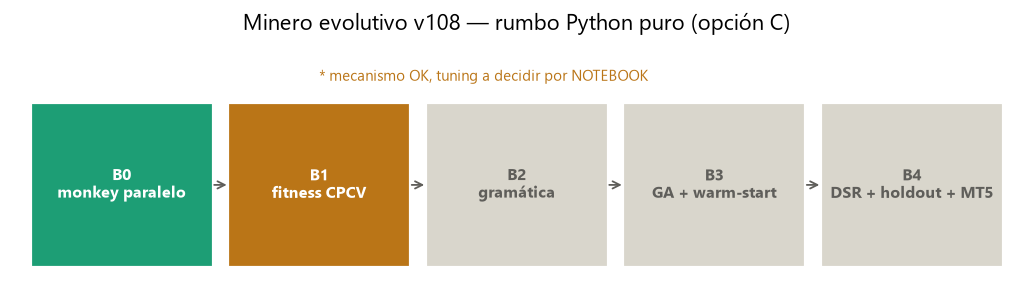
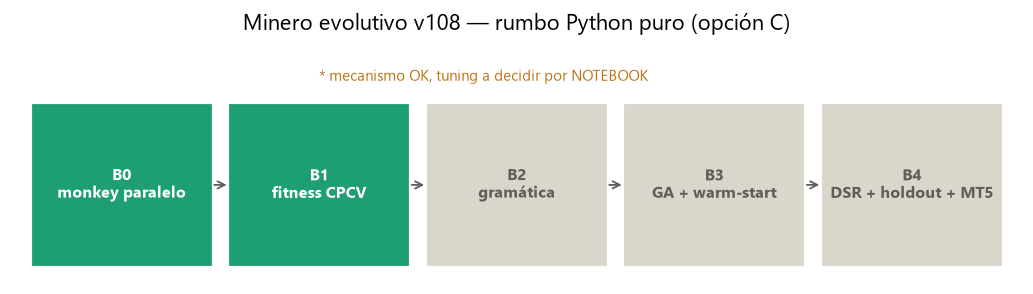
[BLANCA] B1 config cerrada: barrido + validacion EURGBP -> n=1000 + Q25
Ejecutado el barrido de NOTEBOOK con el juez justo (EURGBP sin tendencia,
la beta no contamina). EURGBP ingerido (gate WARN benigno = libra 2008 en
Z0 sellada; assets.csv con Z1/Z2 2015/2022, friccion forex aprox), pools
LONG MOM+TREND minados.

Barrido nx{400,1000} x {mediana,Q25}: en EURGBP la mediana NO de-sesga
(top 64% horizonte largo, rho +0.04) y Q25 SI (14% largo, rho +0.09). En
XAUUSD van parejas. Por la regla "Q25 solo si EURGBP lo respalda", Q25
gana claro -> fitness_v108.py queda con agg='q25' default; n=1000 (menor
varianza). El fitness le gana al naive donde la beta contamina (XAUUSD
bull: de-sesga 78%->56%); en mercado limpio van parejos.

P1/P2/P3 respondidas en docs/desarrollo.html + grafico v108_b1_tuning.png
(pedido de Mariano: registro grafico de cada avance). Herramientas:
tools/barrido_b1.py, experimentos/barrido_b1.csv.

Changed region(s): [[0.2168, 0.3367, 0.4027, 0.9184]]

diff --git a/docs/desarrollo.html b/docs/desarrollo.html
@@ -79,24 +79,22 @@ gates) está validado; el cuello es el GENERADOR de hipótesis. Se construye el 
   es ruidosa. <b>Hallazgo importante:</b> en el terreno fresco/limpio/largo la transferencia Z1→Z2 es débil
   pero REAL — el "anti-edge absoluto" de antes era en parte artefacto de la data vieja.</div></div>
 
-<h2 id="preguntas">❓ Preguntas abiertas para NOTEBOOK</h2>
-<p style="font-size:13.5px">(Mariano las contesta desde la notebook. También quedan en BITACORA.md.)</p>
+<div class="card"><a href="desarrollo/v108_b1_tuning.png" target="_blank"><img src="desarrollo/v108_b1_tuning.png" alt="B1 tuning"></a>
+  <div class="pie"><span class="num">B1·tuning</span><b>El barrido cierra la config: n=1000 + Q25.</b> La clave
+  fue validar en <b>EURGBP (sin tendencia = juez justo, la beta no contamina)</b>. Izq: la mediana NO de-sesga
+  ahí (64% horizonte largo en el top); <b>Q25 sí (14%)</b>. Der: Q25 también predice mejor la honestidad en
+  EURGBP (+0,09 vs +0,04). En XAUUSD las dos van parejas. → <b>Q25 elegido</b> (NOTEBOOK: "Q25 solo si EURGBP
+  lo respalda" — y lo respalda).</div></div>
 
-<div class="q"><b>P1 — Tuning del fitness B1 antes de cablearlo al GA (B3).</b> El mecanismo está probado
-(skill→100, beta→0) y bate al naive en lo grueso (+0,20 vs +0,17), pero su top-50 no supera al de pf_is (mk_z2
-47 vs 58). Knobs disponibles: <b>(a)</b> n_monkeys 400→800/1000 (baja la varianza por fold); <b>(b)</b>
-agregación mediana vs Q25 (Q25 afinó: top 52 y 5/50 pasan ≥90 vs 47 y 2/50); <b>(c)</b> la regla
-<code>n_valid&lt;K/2 ⇒ fitness 0</code> (¿muy dura?); <b>(d)</b> λ de parsimonia. <b>¿Corro un barrido
-(n∈{400,1000}×{mediana,Q25}) y te traigo la tabla, o fijás vos la config?</b></div>
-
-<div class="q"><b>P2 — El diagnóstico cambió en terreno fresco.</b> Con la data Dukascopy nueva (Z2 2022-26,
-historia 2003+), pf_is muestra <b>+0,168 de transferencia Z1→Z2 real</b>, no el ~0/negativo del diagnóstico
-viejo. ¿Esto reabre algo del rumbo (p.ej. vale la pena exprimir la gramática vieja un poco más), o seguimos
-firmes con B2 (gramática formulaica) como estaba?</div>
-
-<div class="q"><b>P3 — Objetivo del fitness: ¿robustez o pico?</b> El fitness actual premia consistencia en Z1
-(mediana de folds), lo que sacrifica algo de pico. ¿La brújula del GA debe priorizar candidatos robustos-pero-
-modestos, o picos-altos-aunque-menos-consistentes? Define qué optimiza B3.</div>
+<h2 id="preguntas">✅ Preguntas — RESPONDIDAS por NOTEBOOK (2026-06-16)</h2>
+<div class="ok"><b>P1 — RESUELTA.</b> Barrido corrido con el juez justo (EURGBP). <b>Config elegida: n=1000 + Q25</b>
+(fijada como default en <code>fitness_v108.py</code>). Honestidad: el fitness le gana al naive donde la beta
+contamina (XAUUSD bull: de-sesga 78%→56%, Spearman +0,18 vs +0,16); en el mercado limpio (EURGBP) ambos van
+parejos. Ver gráfico B1·tuning.</div>
+<div class="ok"><b>P2 — seguimos a B2.</b> El +0,168 es señal débil REAL (parte del anti-edge viejo era artefacto
+de la data sucia). Rumbo igual, pronóstico algo mejor.</div>
+<div class="ok"><b>P3 — ROBUSTEZ, no pico.</b> El "pico" es la maldición del ganador / la beta. El fitness
+beta-neutral (mediana/Q25 de folds) ya prioriza robustez — se mantiene.</div>
 
 <div class="ok" style="margin-top:24px">Cómo se actualiza: <code>python tools/graficar_desarrollo.py</code> regenera los PNG
 desde los datos reales (CSV de validación, benchmarks). Cada bloque nuevo agrega su gráfico acá y su entrada en

diff --git a/tools/barrido_b1.py b/tools/barrido_b1.py
@@ -1,0 +1,118 @@
+# ##########################################################################
+# SYSTEM: X1-ARCHITECT | B1 TUNING (barrido + validación cruzada EURGBP)
+# FILE: tools/barrido_b1.py
+# ROL: Cerrar la config del fitness v108. Barre n∈{400,1000}×agg∈{mediana,Q25}
+#      sobre XAUUSD (Z2 bull, sesgado a beta) Y EURGBP (sin tendencia = JUEZ
+#      JUSTO del fitness beta-neutral, spec NOTEBOOK).
+#      Juez: (a) Spearman(fitness, mk_oos_z2) global, (b) de-sesgo de beta
+#      (% horizonte largo en el top-50), (c) coherencia en EURGBP.
+# USO: python tools/barrido_b1.py [n_sample]
+# ##########################################################################
+import os, sys, time, json
+import numpy as np
+import pandas as pd
+from scipy import stats
+
+sys.path.insert(0, os.path.dirname(os.path.dirname(os.path.abspath(__file__))))
+from modules.x1_engine import simulate
+from modules.x1_validators import monkey_batch
+from modules.fitness_v108 import fitness_population
+
+N_SAMPLE = int(sys.argv[1]) if len(sys.argv) > 1 else 3000
+N_TRUTH = 1000
+LONG_HORIZON = {'Ret_72', 'Ret_96'}   # los exits "beta" (deriva larga)
+SYMBOLS = {
+    'XAUUSD': dict(parquet=r'C:\temp\X1_FULL_XAUUSD_H1.parquet', f_points=1.0,
+                   pools=[r'C:\temp\X1_RAW_XAUUSD_LONG_MOMENTUM.parquet',
+                          r'C:\temp\X1_RAW_XAUUSD_LONG_TREND.parquet']),
+    'EURGBP': dict(parquet=r'C:\temp\X1_FULL_EURGBP_H1.parquet', f_points=0.0002,
+                   pools=[r'C:\temp\X1_RAW_EURGBP_LONG_MOMENTUM.parquet',
+                          r'C:\temp\X1_RAW_EURGBP_LONG_TREND.parquet']),
+}
+CONFIGS = [(400, 'median'), (1000, 'median'), (400, 'q25'), (1000, 'q25')]
+
+
+def load_symbol(sym, spec):
+    df = pd.read_parquet(spec['parquet'])
+    zone = df['Zone'].values
+    z_is, z_oos = zone == 1, zone == 2
+    z1s, z1e = int(np.argmax(z_is)), int(np.where(z_is)[0][-1] + 1)
+    base = df.drop(columns=['DateTime', 'Zone'], errors='ignore')
+    data = base.values.astype(np.float32)
+    cm = {n: i for i, n in enumerate(base.columns)}
+    ri = {n: i for i, n in enumerate(base.columns) if 'Ret_' in n}
+    close = data[:, cm['Close']].astype(np.float64)
+    ret1 = np.zeros(len(close)); ret1[:-1] = (close[1:] - close[:-1]) / (close[:-1] + 1e-9)
+    pool = pd.concat([pd.read_parquet(p) for p in spec['pools']], ignore_index=True)
+    pool = pool.sample(n=min(N_SAMPLE, len(pool)), random_state=42).reset_index(drop=True)
+    cands = list(zip(pool['Entry'], pool['Side'], pool['Exit']))
+    fp = spec['f_points']; fr_oos = fp / float(np.mean(close[z_oos]))
+    # verdad Z2 (solo validación) + pf_is
+    pf_is = np.full(len(cands), np.nan); jobs, tags = [], []
+    for ci, (rule, side, ex) in enumerate(cands):
+        try:
+            sim = simulate(data, cm, ri, rule, ex, side, cooldown=25, friction_points=fp)
+        except ValueError:
+            continue
+        idx = np.where(sim['mask'])[0]; r_all = sim['vector']
+        r_i = r_all[z_is][r_all[z_is] != 0]
+        if len(r_i) >= 2:
+            pf_is[ci] = r_i[r_i > 0].sum() / (abs(r_i[r_i < 0].sum()) + 1e-9)
+        ent = idx[z_oos[idx]]
+        if len(ent) >= 5:
+            pos = np.searchsorted(idx, ent); expo = int(max(1, round(float(np.mean(sim['durations'][pos])))))
+            jobs.append(dict(ret_1=ret1[z_oos], n_trades=len(ent), exposure=expo,
+                             strat_total=float(r_all[z_oos].sum()), side=side,
+                             n_monkeys=N_TRUTH, seed=777 + ci, friction_per_trade=fr_oos))
+            tags.append(ci)
+    mk = np.full(len(cands), np.nan)
+    for ci, r in zip(tags, monkey_batch(jobs)):
+        mk[ci] = r['pvalue'] * 100.0
+    return dict(data=data, cm=cm, ri=ri, z1s=z1s, z1e=z1e, cfg={'cooldown': 25, 'f_points': fp},
+                cands=cands, exits=pool['Exit'].values, pf_is=pf_is, mk=mk)
+
+
+print(f"Cargando símbolos (pool {N_SAMPLE}/símbolo, verdad Z2 n={N_TRUTH})...", flush=True)
+S = {}
+for sym, spec in SYMBOLS.items():
+    t = time.time(); S[sym] = load_symbol(sym, spec)
+    print(f"  {sym}: {len(S[sym]['cands'])} cands en {time.time()-t:.0f}s", flush=True)
+
+
+def metrics(sym, fitness_core):
+    d = S[sym]
+    R = pd.DataFrame({'exit': d['exits'], 'fit': fitness_core, 'pf_is': d['pf_is'], 'mk': d['mk']})
+    R = R[R['mk'].notna() & R['pf_is'].notna()].reset_index(drop=True)
+    rho = stats.spearmanr(R['fit'], R['mk'])[0]
+    top = R.nlargest(50, 'fit')
+    longp = 100 * top['exit'].isin(LONG_HORIZON).mean()
+    return dict(rho=rho, top_mk=float(top['mk'].mean()), top_long=float(longp),
+                pool_long=100 * R['exit'].isin(LONG_HORIZON).mean())
+
+
+rows = []
+# baseline pf_is (referencia naive, una vez por símbolo)
+for sym in SYMBOLS:
+    d = S[sym]; R = pd.DataFrame({'exit': d['exits'], 'pf_is': d['pf_is'], 'mk': d['mk']}).dropna()
+    rho = stats.spearmanr(R['pf_is'], R['mk'])[0]; top = R.nlargest(50, 'pf_is')
+    rows.append(dict(config='pf_is(naive)', sym=sym, rho=round(rho, 3),
+                     top_mk=round(float(top['mk'].mean()), 1),
+                     top_long=round(100 * top['exit'].isin(LONG_HORIZON).mean(), 0)))
+
+for n, agg in CONFIGS:
+    for sym in SYMBOLS:
+        d = S[sym]
+        fit = fitness_population(d['cands'], d['data'], d['cm'], d['ri'], d['z1s'], d['z1e'],
+                                 d['cfg'], n_monkeys=n, agg=agg)
+        m = metrics(sym, np.array([f['fitness_core'] for f in fit]))
+        rows.append(dict(config=f'n={n},{agg}', sym=sym, rho=round(m['rho'], 3),
+                         top_mk=round(m['top_mk'], 1), top_long=round(m['top_long'], 0)))
+        print(f"  {sym} n={n} {agg}: Spearman {m['rho']:+.3f} | top50 mk_z2 {m['top_mk']:.1f} | "
+              f"top50 %largo {m['top_long']:.0f}% (pool {m['pool_long']:.0f}%)", flush=True)
+
+T = pd.DataFrame(rows)
+T.to_csv("experimentos/barrido_b1.csv", index=False)
+print("\n=== TABLA (juez: Spearman global + de-sesgo beta [top %largo BAJO] + coherencia EURGBP) ===")
+piv = T.pivot(index='config', columns='sym', values=['rho', 'top_long'])
+print(piv.to_string())
+print("\nCSV: experimentos/barrido_b1.csv")

diff --git a/tools/graficar_desarrollo.py b/tools/graficar_desarrollo.py
@@ -23,7 +23,7 @@ def save(fig, name):
 
 # ── v108 — línea de tiempo de bloques del minero ──
 fig, ax = plt.subplots(figsize=(10, 2.4))
-blocks = [("B0\nmonkey paralelo", "hecho"), ("B1\nfitness CPCV", "hecho*"),
+blocks = [("B0\nmonkey paralelo", "hecho"), ("B1\nfitness CPCV", "hecho"),
           ("B2\ngramática", "pend"), ("B3\nGA + warm-start", "pend"),
           ("B4\nDSR + holdout + MT5", "pend")]
 for i, (lab, st) in enumerate(blocks):
@@ -104,5 +104,33 @@ if os.path.exists(csv):
     ax.set_title(f"B1 — fitness (Z1) vs honestidad (Z2) sobre {len(R):,} candidatos frescos\n"
                  "tendencia positiva real (Spearman +0,20) pero ruidosa: hay señal débil, no oro")
     save(fig, "v108_b1_scatter.png")
+
+# ── B1 tuning — el barrido: por qué Q25 (juez justo = EURGBP sin tendencia) ──
+bcsv = os.path.join(ROOT, "experimentos", "barrido_b1.csv")
+if os.path.exists(bcsv):
+    B = pd.read_csv(bcsv)
+    confs = ["pf_is(naive)", "n=1000,median", "n=1000,q25"]
+    lab = ["pf_is\n(naive)", "fitness\nmediana", "fitness\nQ25 ✓"]
+    fig, (axL, axR) = plt.subplots(1, 2, figsize=(11, 4.4))
+    x = np.arange(len(confs)); w = 0.38
+    for ax, metric, ylab, title in (
+            (axL, 'top_long', '% horizonte largo en top-50  (más BAJO = mejor)',
+             'De-sesgo de beta (Ret_72/96 en el top)'),
+            (axR, 'rho', 'Spearman(métrica , honestidad Z2)',
+             'Poder predictivo Z1→Z2')):
+        for j, sym in enumerate(('XAUUSD', 'EURGBP')):
+            vals = [float(B[(B.config == c) & (B.sym == sym)][metric].iloc[0]) for c in confs]
+            cols = [AMBAR if sym == 'XAUUSD' else AZUL]
+            bars = ax.bar(x + (j - 0.5) * w, vals, w,
+                          color=(AMBAR if sym == 'XAUUSD' else AZUL),
+                          label=f"{sym}{' (bull, beta)' if sym=='XAUUSD' else ' (sin tendencia, juez justo)'}")
+            for b, v in zip(bars, vals):
+                ax.text(b.get_x() + w / 2, v + (1 if metric == 'top_long' else 0.004),
+                        f"{v:.0f}" if metric == 'top_long' else f"{v:.2f}", ha="center", fontsize=8)
+        ax.set_xticks(x); ax.set_xticklabels(lab); ax.set_title(title, fontsize=10.5)
+        ax.set_ylabel(ylab, fontsize=9); ax.legend(fontsize=8)
+    fig.suptitle("B1 TUNING — Q25 elegido: en EURGBP (juez sin beta) la mediana NO de-sesga (64% largo) "
+                 "y Q25 sí (14%)", fontsize=11.5, y=1.02)
+    save(fig, "v108_b1_tuning.png")
 
 print("\nListo: PNGs en docs/desarrollo/")

diff --git a/modules/fitness_v108.py b/modules/fitness_v108.py
@@ -60,7 +60,12 @@ def _rule_seed(base, rule, side, exit_label):
 
 def fitness_population(cands, data, col_map, ret_indices, z1_start, z1_end, cfg,
                       K=6, n_monkeys=400, lam=0.0, seed=12345, embargo_frac=0.1,
-                      min_t_fold=None, n_threads=None, agg='median'):
+                      min_t_fold=None, n_threads=None, agg='q25'):
+    # agg DEFAULT='q25' (B1 tuning cerrado 2026-06-16): el barrido validó Q25
+    # contra EURGBP (juez sin tendencia): de-sesga la beta en el top (14% largo
+    # vs 54-64% de la mediana) y mejora la coherencia (Spearman +0.09 vs +0.04).
+    # La mediana favorecía el horizonte largo en mercados laterales. Ver
+    # tools/barrido_b1.py y experimentos/barrido_b1.csv.
     """Fitness v108 para una POBLACIÓN de candidatos (batched, B0-paralelo).
 
     cands: iterable de (rule, side, exit_label).

diff --git a/BITACORA.md b/BITACORA.md
@@ -6,6 +6,36 @@
 > numérico deja su gráfico ahí. Las preguntas abiertas también están ahí. Regenerar con
 > `python tools/graficar_desarrollo.py`.
 
+## 2026-06-16 — [BLANCA] B1 CONFIG CERRADA: barrido + validación EURGBP → **n=1000 + Q25**
+
+Ejecutado el barrido que pidió NOTEBOOK con el JUEZ JUSTO (EURGBP sin tendencia, donde la beta no
+contamina). Ingerí EURGBP (gate WARN benigno: las 31 costuras son del colapso real de la libra 2008,
+en Z0 sellada; assets.csv con Z1_Start 2015 / Z2_Start 2022, fricción forex aprox). Pools LONG MOM+TREND
+minados en Z1. Gráfico: `docs/desarrollo/v108_b1_tuning.png`.
+
+**Barrido n∈{400,1000} × {mediana,Q25}, juez = Spearman(fit,mk_z2) + de-sesgo beta (top %largo) + EURGBP:**
+
+| config | rho XAUUSD | rho EURGBP | top %largo XAUUSD | top %largo EURGBP |
+|---|---|---|---|---|
+| pf_is (naive) | +0,161 | +0,156 | 78% | 12% |
+| fitness mediana (n=1000) | +0,192 | +0,041 | 56% | **64%** ⚠ |
+| **fitness Q25 (n=1000)** | +0,183 | +0,092 | 56% | **14%** ✅ |
+
+**Decisión (regla de NOTEBOOK "Q25 solo si EURGBP lo respalda"): Q25 GANA claro.** En EURGBP la mediana
+NO de-sesga (top 64% horizonte largo) y Q25 sí (14%), con mejor coherencia (rho +0,09 vs +0,04). n=400 y
+n=1000 dan casi igual en Q25 (+0,091 vs +0,092); elijo **n=1000** (menor varianza por fold, como sugirió
+NOTEBOOK). **`fitness_v108.py` queda con `agg='q25'` por default.** n_monkeys sigue per-call (300-500
+evolución / 5000 finalistas, según spec).
+
+**Honestidad (R4):** el fitness le gana al naive **donde la beta contamina** (XAUUSD bull: de-sesga
+78%→56%, Spearman +0,18 vs +0,16). En el mercado limpio (EURGBP) ambos van parejos en rho (Q25 +0,09 vs
+pf_is +0,16, pero pf_is ahí ya tiene 12% largo = no necesita de-sesgo). O sea: el fitness **se gana el
+sueldo exactamente cuando hace falta** (régimen con beta), que es el caso realista del GA. P1/P2/P3
+respondidas y reflejadas en `docs/desarrollo.html`.
+
+**Siguiente:** B2 (gramática formulaica) — lo arranca NOTEBOOK cuando vuelva Mariano (spec abajo). Herramientas:
+`tools/barrido_b1.py`, `experimentos/barrido_b1.csv`.
+
 ## 2026-06-16 — [NOTEBOOK] B2: especificación de la GRAMÁTICA FORMULAICA (operadores TS + factory on-demand)
 
 Diseño tras estudiar `x1_engine.py` (motor) y `translator_mql5.py` (registro). **El motor NO se toca**
